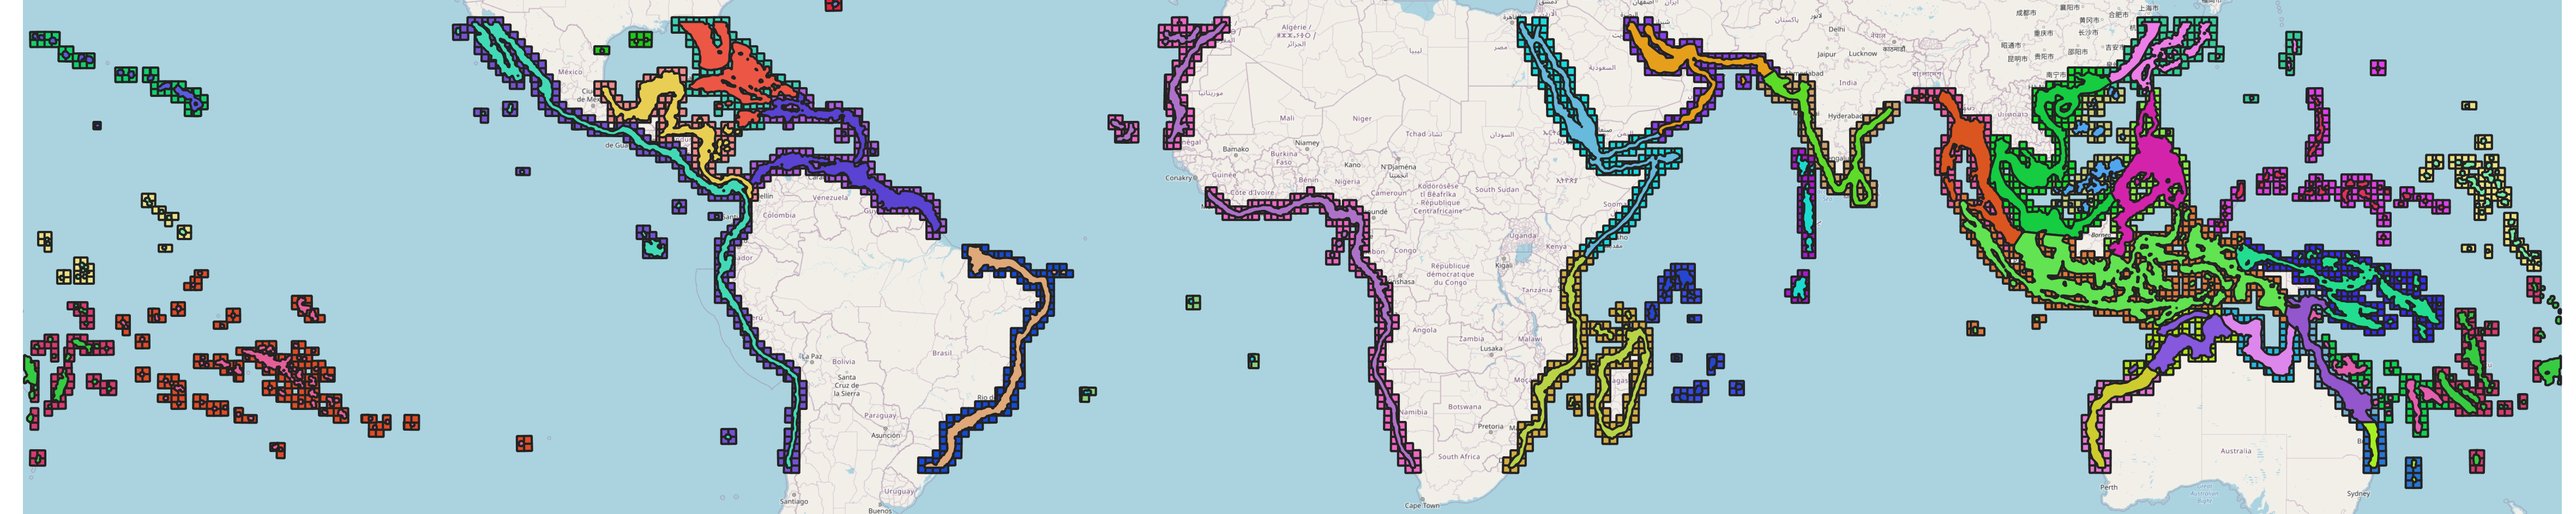
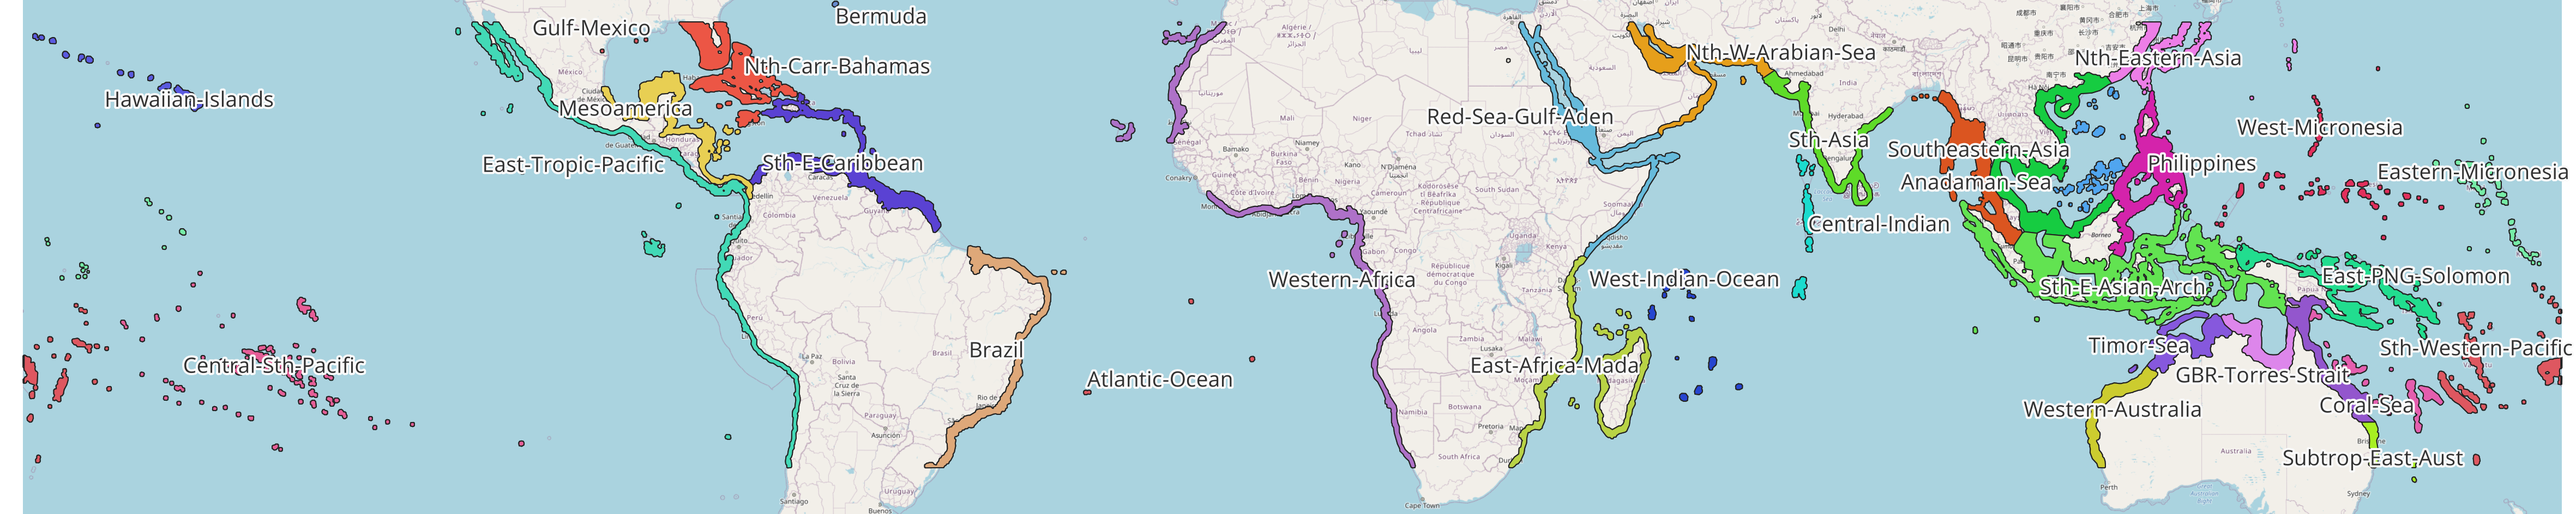
Added preview images to README and fix swapping of Region and RegionName attributes for three regions

diff --git a/README.md b/README.md
@@ -1,12 +1,38 @@
-# World reef regions
+# Global reef regions
 This dataset represents broad boundaries around all global reefs with a buffer of 
 approximately 30 km around reefs. This boundary map is intended to capture all
-shallow regions where tropical coral reefs might occur. 
+shallow regions where tropical coral reefs might occur and is intended to assist with
+determining areas where satellite imagery needs to be processes to map global reefs.
+The features are split into regions with the purpose of organising global reef mapping 
+into managable areas. 
 
-This dataset was based on the regionalisation and identification of reef locations
-performed by the Allen Coral Atlas. The features are split into regions with the
-purpose of organising global reef mapping into managable areas. 
+This dataset contains two shapefiles:
+1. Global reef regions (`World_AIMS_Reef-regions_V1.shp`) - broad boundary around reefs from -30 degrees to +30 degree latitude.
+2. Sentinel 2 tiles that intersect with each region (`World_AIMS_Reef-regions_Sentinel2_V1.shp`)
 
+This dataset was derived from on the regionalisation and identification of reef locations
+performed by the Allen Coral Atlas. 
+
+![Preview map of reef regions dataset](media/Reef-regions-preview-map.png)
+Preview of the Global reef regions dataset (`World_AIMS_Reef-regions_V1.shp`).
+
+![Preview map of reef regions dataset](media/Reef-regions-sentinel2-preview-map.png)
+Preview of the intersecting Senintel 2 tiles (`World_AIMS_Reef-regions_Sentinel2_V1.shp`).
+
+# Change log
+## 2022-02-10 - V1 - Initial release of the dataset. 
+This dataset was developed sufficiently to allow the organisation of files for the 
+[Coral Sea Mapping project](https://eatlas.org.au/projects-other/coral-sea-reef-mapping). As such
+there has been a greater level of adjustment and optimisation of the boundaries in the Australia
+regions.
+The regional boundaries were heavily based on the Allen Atlas boundaries, but with greater division 
+around australia. The original Timor and Arafura sea region was split in two, and the Timor Sea region extended
+to cover the banks and shoals along the edge of the continental shelf of North West Australia. To minimise
+the number of Sentinel 2 tiles that need to be processed the boundaries were manually reviewed to look for
+areas where the boundary just touched a Sentinel 2 tile. In these cases these tiles would simply be open
+water. The boundaries were then adjusted in tighter around the reefs. The main focus of this work was
+in the Coral Sea region, reducing the number of tiles by 8. Little review has been undertaken for 
+most of the non-Australian regions and so these should be considered as draft quality.
 
 # Regions
 This dataset describes the regional organisation of the satellite imagery. This
